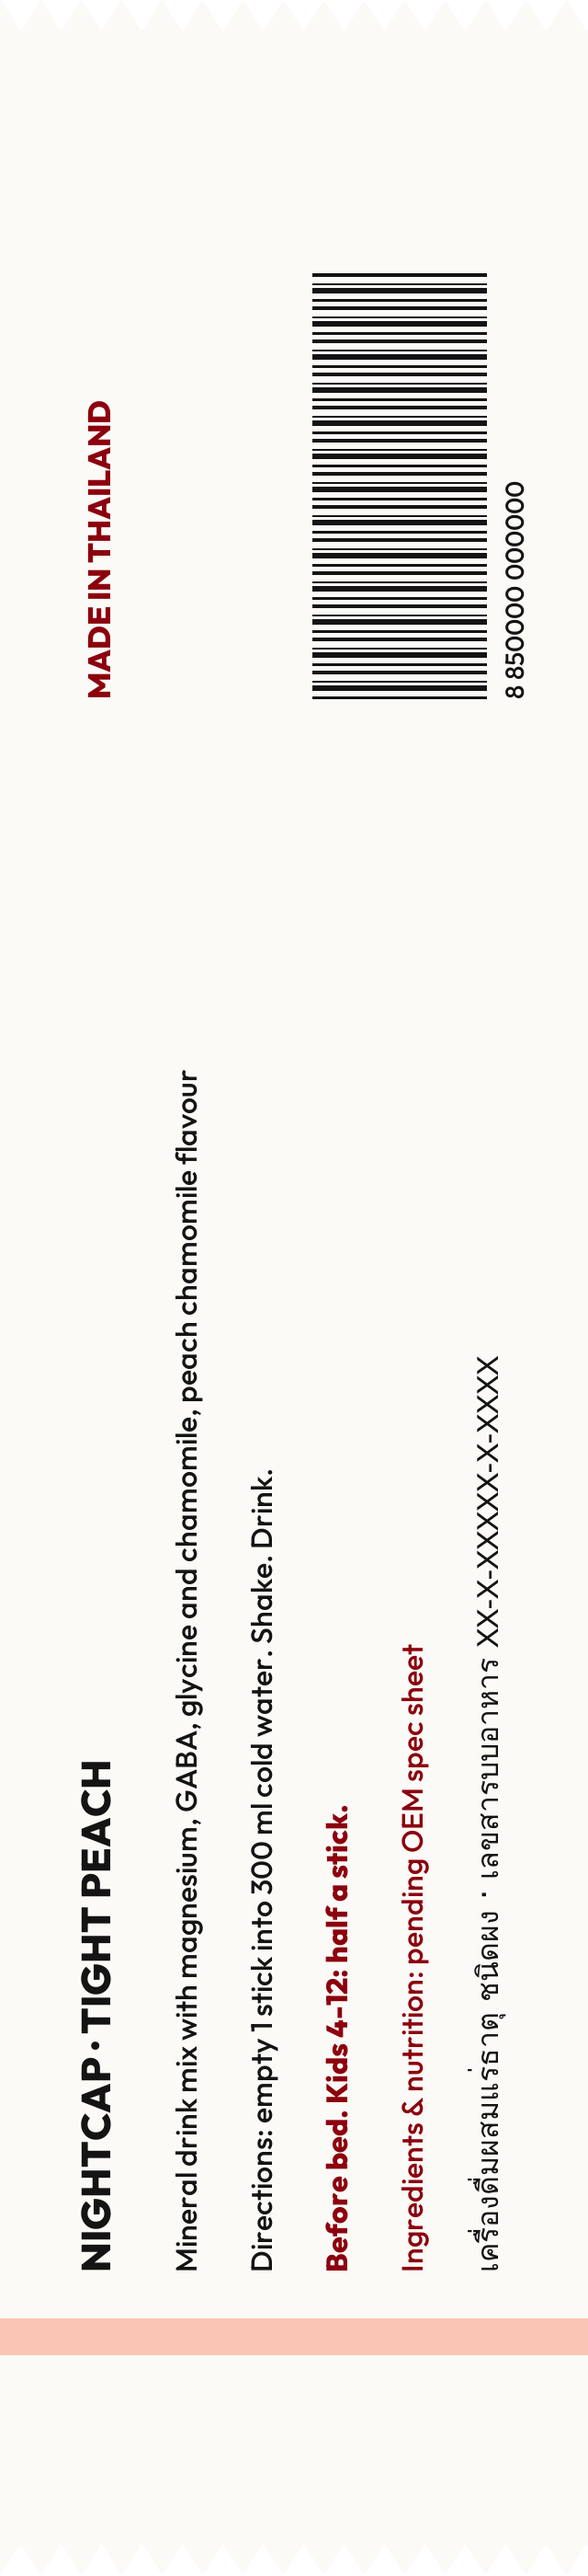
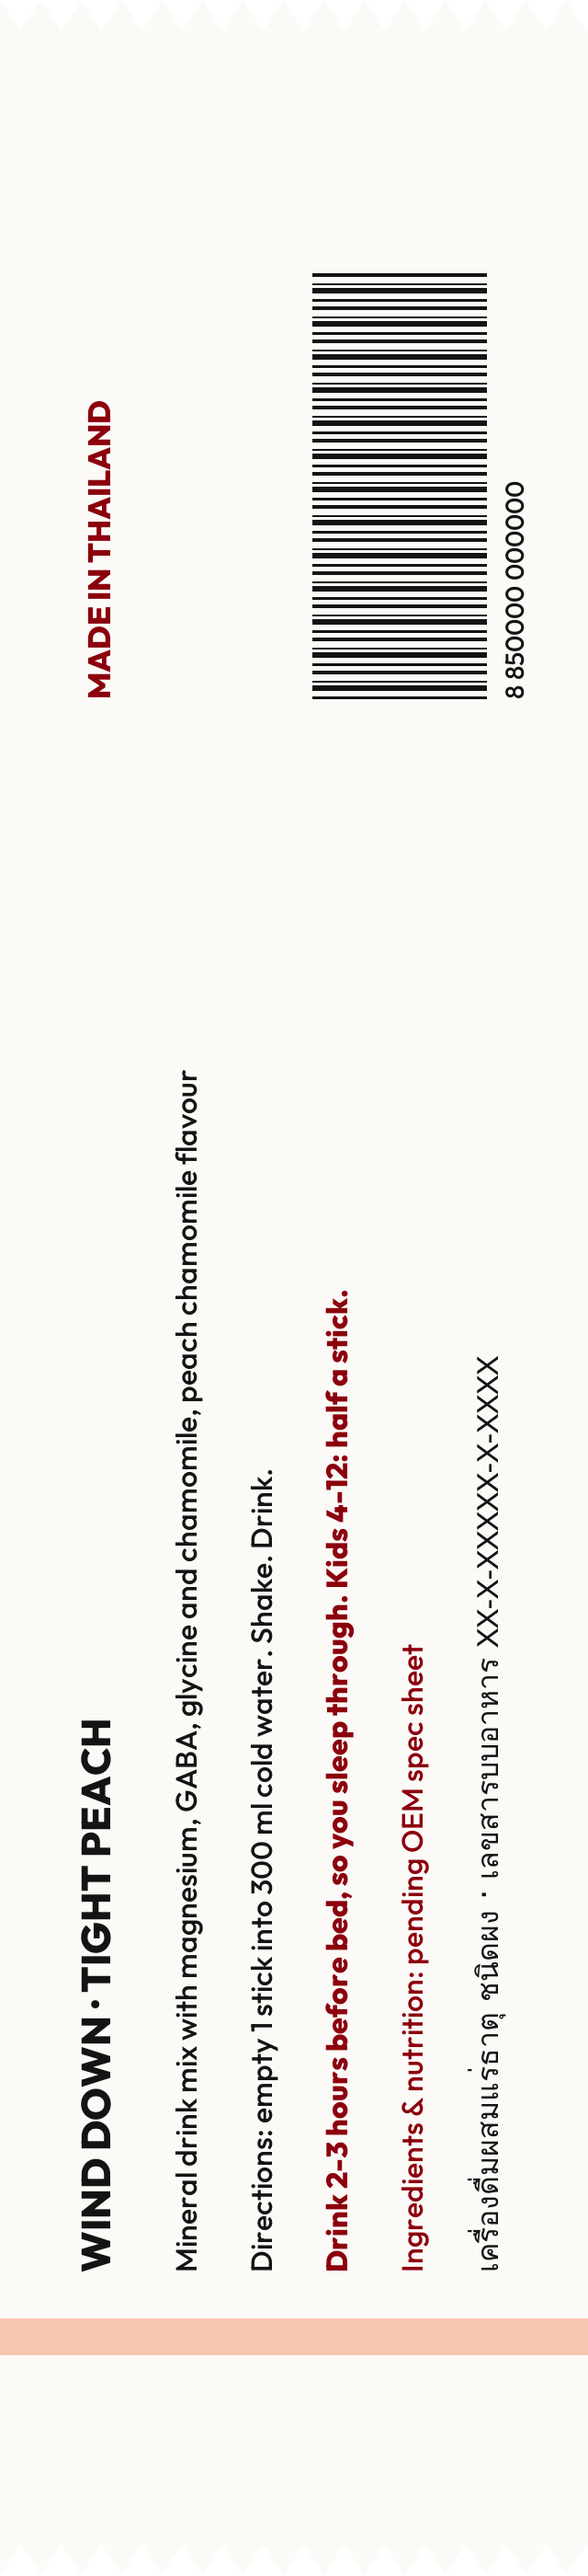
Sleep stick renamed Wind Down, taken 2-3 h before bed
Claude-Session: https://claude.ai/code/session_01SimvMRDvwbaAfYVeF7kW62

Changed region(s): [[0.5312, 0.4971, 0.5938, 0.9011], [0.125, 0.6525, 0.1875, 0.9011]]

diff --git a/render/make_labels.py b/render/make_labels.py
@@ -34,9 +34,9 @@ SKUS = {
                         extra="2.5 g creatine, collagen and vitamin C", water=500, bubble=["NO LOADING", "NO BLOAT"],
                         note="Post-workout. Adults only. Max 1 stick a day."),
     "tight-peach": dict(name=["TIGHT", "PEACH"], flavour="PEACH CHAMOMILE", panel="#F8C6B2", icon="peach",
-                        line="NIGHTCAP", sub="6 ELECTROLYTES + GABA + CHAMOMILE",
-                        extra="magnesium, GABA, glycine and chamomile", water=300, bubble=["JUST ADD", "WATER"],
-                        note="Before bed. Kids 4-12: half a stick."),
+                        line="WIND DOWN", sub="6 ELECTROLYTES + GABA + CHAMOMILE",
+                        extra="magnesium, GABA, glycine and chamomile", water=300, bubble=["2-3 HRS", "BEFORE BED"],
+                        note="Drink 2-3 hours before bed, so you sleep through. Kids 4-12: half a stick."),
 }
 
 # Hand-drawn-ish black icons, drawn in a 400x400 box.

diff --git a/docs/PROTOCOL.md b/docs/PROTOCOL.md
@@ -47,7 +47,7 @@ consultation; that's the "no hassle" path. Source: food.fda.moph.go.th, *Beverag
 
 | | **Morning** (GLP-1) | **Pre-workout** (caffeine-free pump) | **Post-workout** (adults only) | **Sleep** |
 |---|---|---|---|---|
-| Flavour, name kept for now | Pomelo + ginger · Pomel-Oh! | **Salty Watermelon** · Wet Melon | **Lychee** · *Do You Even Lychee?* (§6) | Peach + chamomile · Tight Peach |
+| Flavour, name kept for now | Pomelo + ginger · Pomel-Oh! | **Salty Watermelon** · Wet Melon | **Lychee** · *Do You Even Lychee?* (§6) | Peach + chamomile · **Wind Down** · Tight Peach (drink 2–3 h before bed) |
 | Sodium / potassium | 500 / 300 mg | **900** / 400 mg | 400 / 400 mg | 150 / 300 mg |
 | Magnesium (bisglycinate) | 75 mg | 50 mg | 75 mg | **120 mg** |
 | Calcium / phosphate / chloride | 50 / 30 mg / from salt | 50 / 60 mg / from salt | 50 / 30 mg / from salt | 50 / 30 mg / from salt |
